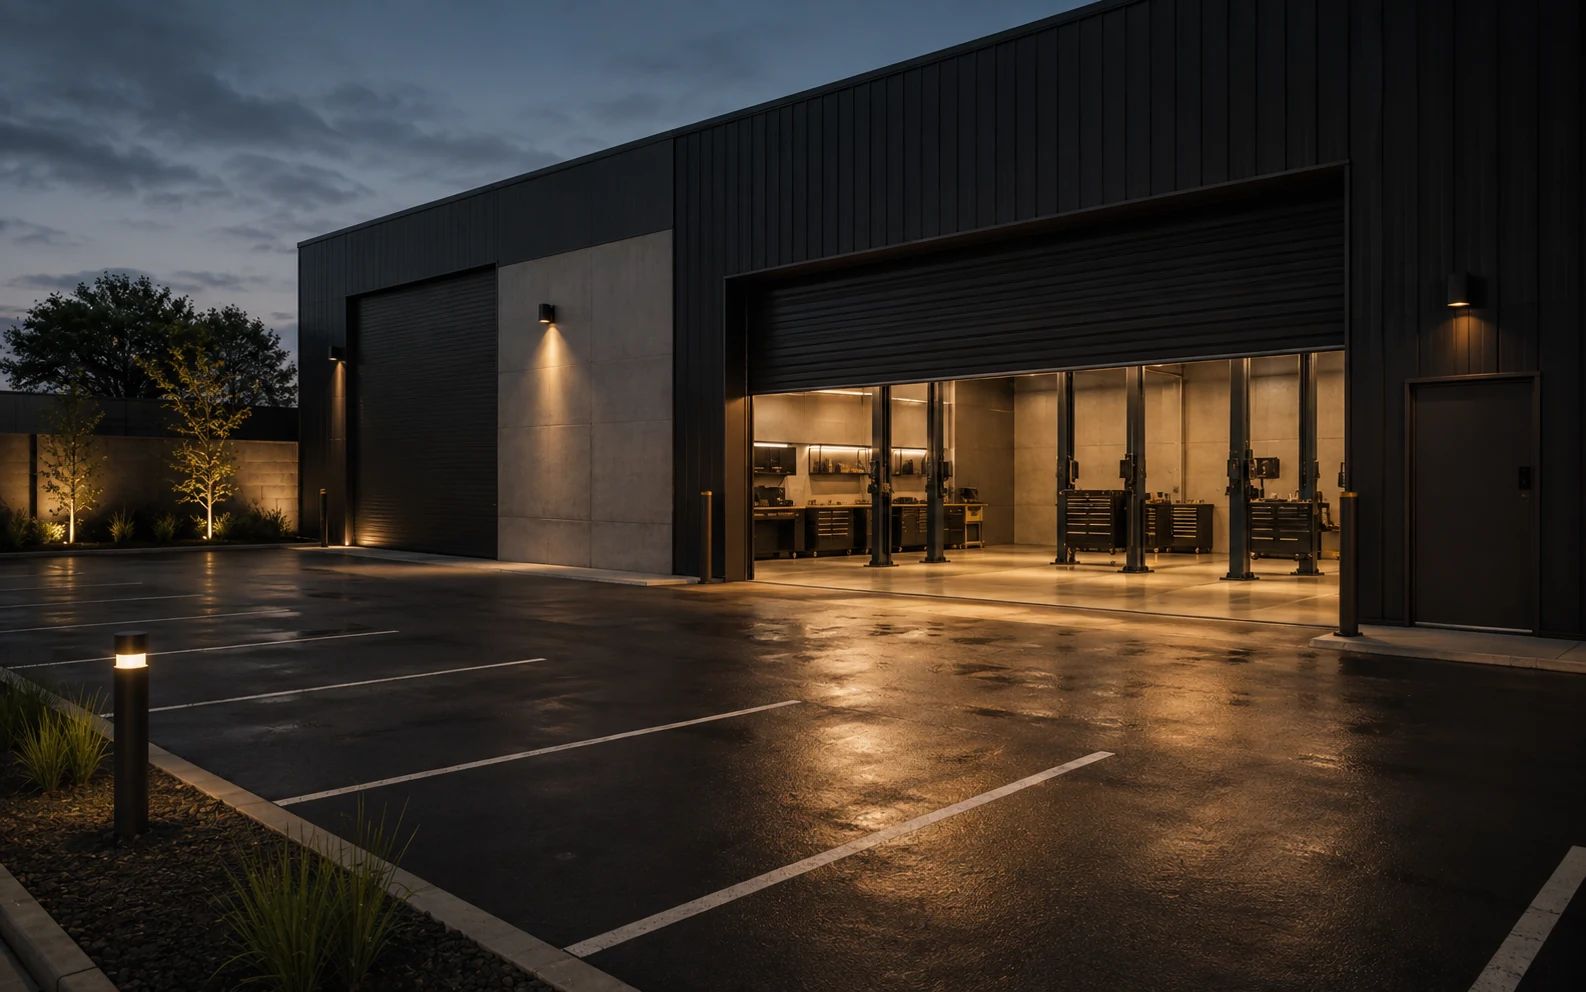
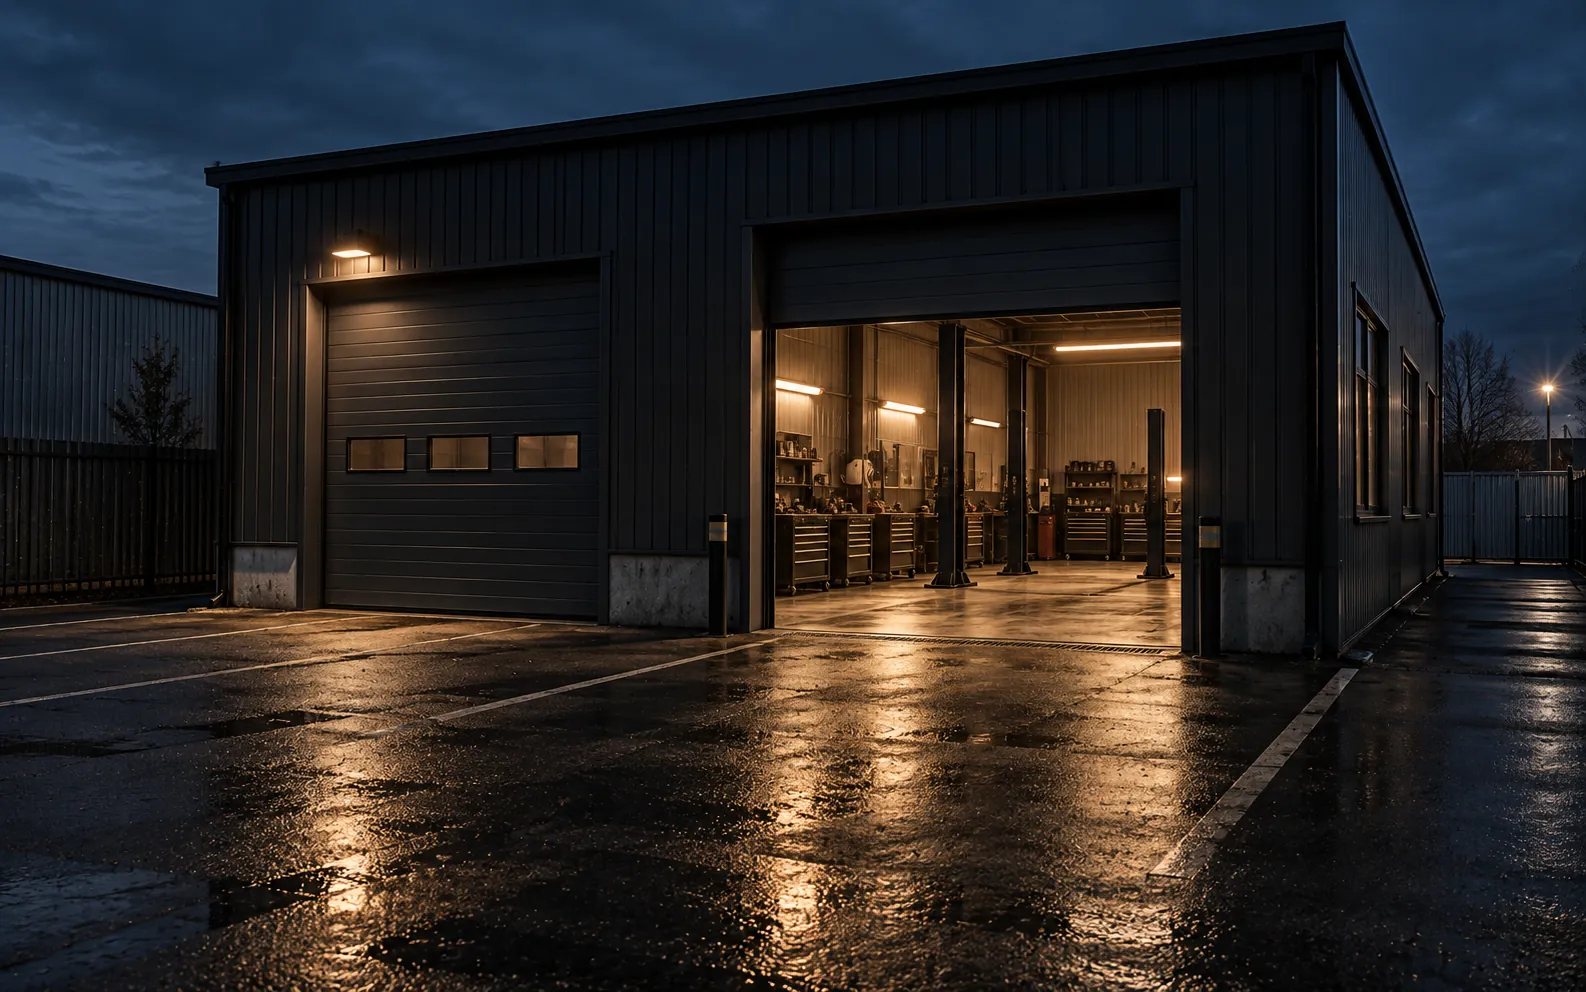
Разбор сайта как клиентом: sticky-итог, свои фото на каждую услугу, ритм
Sticky-панель итога в квизе и калькуляторе не работала: overflow-hidden на
секции делал её клип-контекстом, и «ваш результат» уезжал вверх, пока человек
отвечает на вопросы. Именно этот блок обещает, что итог собирается на глазах.
Клип переехал на слой декора (квиз) и снят совсем (калькулятор).

Восемь карточек услуг делили четыре кадра: подъёмник стоял на ТО, подвеске и
шиномонтаже, сканер — на диагностике и электрике, полировальная — на детейлинге
и керамике. В одном экране оказывались три одинаковые картинки. Добавлены
четыре мотива (ТО, электрика, шиномонтаж, керамика), теперь мотив на карточку
свой. Кадр «реальный цех» заменён: вместо тёмного здания без признаков сервиса
— фасад с секционными воротами, освещённой ремзоной и парковочными местами.

Отзывы были подписаны служебными пометками из спеки — «Тип отзыва: диагностика»
и «формат: месяц и год» уходили прямо в вёрстку. Теперь это подпись «Работы ·
категория», выдуманных дат у демо-цитат нет.

Ритм и первый экран:
- section-gap 9rem → 6.5rem: на стыке светлых секций было 258px пустоты
- fs-hero 4.4vw → 3.7vw, колонка H1 6/12 → 7/12: на ноутбуке 1440×780 кнопки
  первого экрана лежали под сгибом (низ на 789px), теперь на 639px
- лента якорей в шапке больше не показывает скроллбар под sticky-шапкой
- CTA-ячейка блока оборудования занимает две колонки: 7 карточек + CTA
  оставляли пустую ячейку в ряду

Страница стала короче на 1200px, astro check чистый.

diff --git a/src/content/reviews.ts b/src/content/reviews.ts
@@ -6,47 +6,46 @@ import type { Review } from '../config/types';
  * ВАЖНО для приёмки: цитаты ниже помечены isDemo: true и на странице выводятся
  * с явной плашкой «демонстрационная цитата». Для реального клиента:
  * isDemo: false + путь к скриншоту 2ГИС/Яндекса в `screenshot`.
+ *
+ * `author` — категория работ, а не имя: выдумывать людей нельзя, а служебные
+ * пометки вроде «формат: месяц и год» не должны утекать в вёрстку.
+ * `date` у демо-цитат не заполняется — дата появляется вместе с реальным отзывом.
  * Выдумывать отзывы от имени реальных людей нельзя — это триггер риска (секция 7).
  */
 export const reviews: Review[] = [
   {
     source: '2GIS',
     text: 'Приехал с ошибкой на приборке, был готов к «замене всего». Показали лист: что реально нужно сейчас, что можно отложить до следующего визита. Лишнего не накручивают, всё по факту.',
-    author: 'Тип отзыва: диагностика',
+    author: 'Диагностика',
     rating: '5',
-    date: 'формат: месяц и год',
     isDemo: true,
   },
   {
     source: 'Yandex',
     text: 'Позвонил утром, машину взяли в тот же день. Перед началом прислали перечень работ с суммой, по ходу нашли ещё один рычаг — сначала написали, а потом уже меняли. Всё объяснили и сделали быстро.',
-    author: 'Тип отзыва: ремонт подвески',
+    author: 'Ремонт подвески',
     rating: '5',
-    date: 'формат: месяц и год',
     isDemo: true,
   },
   {
     source: '2GIS',
     text: 'Брали на предпродажную подготовку. Замерили толщиномером, сказали, где полировать нельзя, и не стали продавать лишнюю стадию. Цены адекватные, дали гарантию на покрытие.',
-    author: 'Тип отзыва: детейлинг',
+    author: 'Детейлинг',
     rating: '5',
-    date: 'формат: месяц и год',
     isDemo: true,
   },
   {
     source: 'Yandex',
     text: 'Сезонная переобувка без очереди и без «а давайте ещё вот это». Уложились в озвученное время, второй комплект оставил на хранение, отдали бумагу с номером места.',
-    author: 'Тип отзыва: шиномонтаж',
+    author: 'Шиномонтаж',
     rating: '5',
-    date: 'формат: месяц и год',
     isDemo: true,
   },
   {
     source: '2GIS',
     text: 'Понравилось, что заказ-наряд разобрали по строкам при выдаче и отдали снятые детали. Вопросов «за что заплатил» не осталось.',
-    author: 'Тип отзыва: ТО',
+    author: 'ТО',
     rating: '5',
-    date: 'формат: месяц и год',
     isDemo: true,
   },
 ];

diff --git a/src/config/services.ts b/src/config/services.ts
@@ -2,7 +2,8 @@ import type { ServiceCard } from './types';
 
 /**
  * Секция 4 «Категории услуг».
- * Ассеты: 1 визуальный мотив на 2 карточки (подъёмник, сканер, полировальная, экстрактор).
+ * Ассеты: свой визуальный мотив на каждую карточку — одинаковые кадры
+ * в соседних ячейках сетки выдавали шаблон.
  */
 export const services: ServiceCard[] = [
   {
@@ -21,7 +22,7 @@ export const services: ServiceCard[] = [
       'Масло, фильтры, свечи, жидкости по регламенту вашего пробега. Показываем снятые расходники после работы.',
     fromPrice: 3200,
     durationHint: '1,5–3 ч',
-    visual: 'lift',
+    visual: 'service',
   },
   {
     id: 'suspension',
@@ -39,7 +40,7 @@ export const services: ServiceCard[] = [
       'Ищем обрыв, замыкание и просадку питания по схеме. Чиним причину, а не сбрасываем ошибку на приборке.',
     fromPrice: 1800,
     durationHint: '1–4 ч',
-    visual: 'scanner',
+    visual: 'electrics',
   },
   {
     id: 'tires',
@@ -48,7 +49,7 @@ export const services: ServiceCard[] = [
       'Сезонная переобувка, балансировка, ремонт проколов и боковых порезов. Хранение комплекта по договору.',
     fromPrice: 2200,
     durationHint: '40–60 мин',
-    visual: 'lift',
+    visual: 'tires',
   },
   {
     id: 'detailing',
@@ -75,6 +76,6 @@ export const services: ServiceCard[] = [
       'Керамический состав или полиуретан на подготовленный кузов. Пишем в заказ-наряд срок обслуживания покрытия.',
     fromPrice: 21000,
     durationHint: 'от 2 дней',
-    visual: 'polisher',
+    visual: 'ceramic',
   },
 ];

diff --git a/src/styles/global.css b/src/styles/global.css
@@ -41,7 +41,7 @@
    ───────────────────────────────────────────────────────────── */
 @layer base {
   :root {
-    --fs-hero: clamp(2.5rem, 4.4vw, 5rem);
+    --fs-hero: clamp(2.35rem, 3.7vw, 4.25rem);
     --fs-h1: clamp(2rem, 3.8vw, 4rem);
     --fs-h2: clamp(1.5rem, 2.6vw, 2.5rem);
     --fs-h3: clamp(1.15rem, 1.8vw, 1.6rem);
@@ -49,7 +49,7 @@
     --fs-data: clamp(0.9rem, 0.35vw + 0.8rem, 1rem);
 
     --shell-pad: clamp(1.125rem, 4vw, 3.5rem);
-    --section-gap: clamp(4.5rem, 9vw, 9rem);
+    --section-gap: clamp(3.25rem, 6vw, 6.5rem);
 
     --safe-b: env(safe-area-inset-bottom, 0px);
 
@@ -424,6 +424,20 @@
   .scroll-x::-webkit-scrollbar-thumb {
     background: var(--color-line);
     border-radius: 999px;
+  }
+
+  /* Лента якорей в шапке: скроллбар прямо под sticky-шапкой читается как
+     артефакт вёрстки. Полосу убираем, а на то, что строка продолжается,
+     намекаем растворением правого края. */
+  .scroll-x-bare {
+    scrollbar-width: none;
+    scroll-snap-type: none;
+  }
+  .scroll-x-bare::-webkit-scrollbar {
+    display: none;
+  }
+  .fade-r {
+    mask-image: linear-gradient(to right, #000 calc(100% - 2.5rem), transparent);
   }
 
   .prose-legal h2 {

diff --git a/src/config/types.ts b/src/config/types.ts
@@ -27,7 +27,7 @@ export type ServiceCard = {
   fromPrice?: number;
   durationHint?: string;
   /** Ключ визуального мотива карточки: lift | scanner | polisher | extractor */
-  visual: 'lift' | 'scanner' | 'polisher' | 'extractor';
+  visual: 'lift' | 'scanner' | 'polisher' | 'extractor' | 'service' | 'electrics' | 'tires' | 'ceramic';
 };
 
 export type PricingConfig = {
